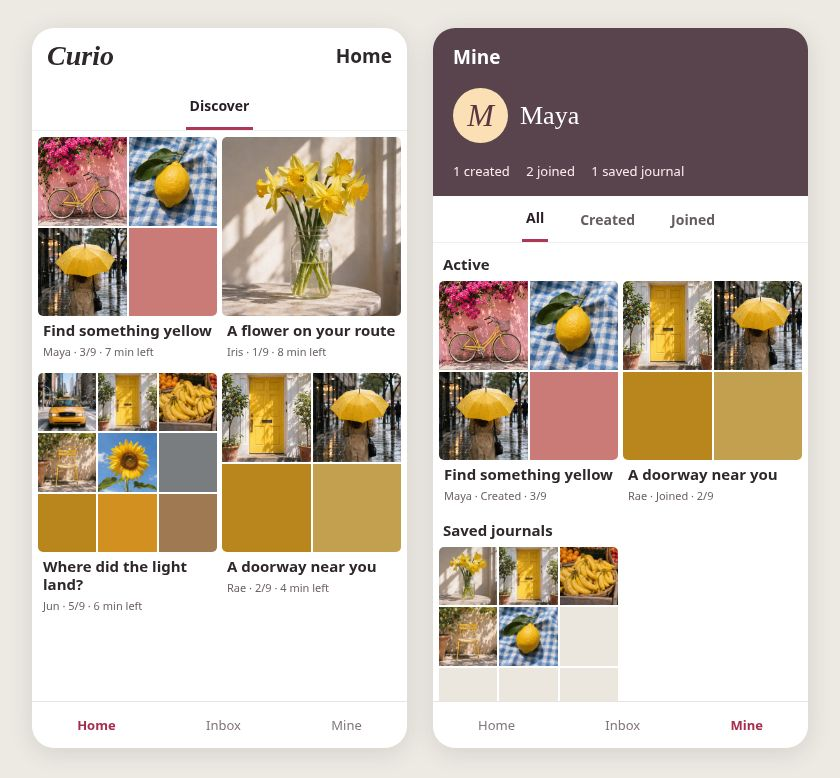
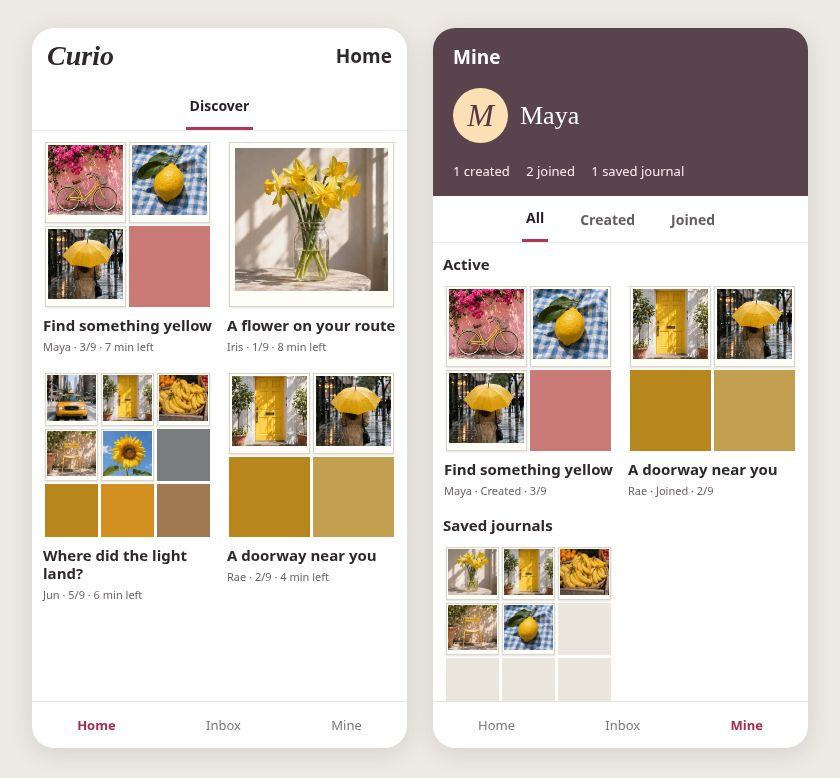
Frame individual Home and Mine photos as instant prints

Changed region(s): [[0.031, 0.1542, 0.9595, 0.8946]]

diff --git a/prototype/round1/ui/Home_and_Mine.html b/prototype/round1/ui/Home_and_Mine.html
@@ -1,1 +1,11 @@
-<!doctype html><html lang="en"><meta charset="utf-8"><meta name="viewport" content="width=device-width,initial-scale=1"><title>Curio · Home and Mine</title><style>*{box-sizing:border-box}body{margin:0;padding:28px 12px;display:flex;justify-content:center;align-items:flex-start;gap:26px;flex-wrap:wrap;background:#edeae4;color:#2f282a;font:15px system-ui,sans-serif}.screen{width:min(375px,100%);height:720px;background:white;overflow:hidden;border-radius:22px;display:flex;flex-direction:column;box-shadow:0 5px 25px #3222}.scroll{overflow-y:auto;flex:1;scrollbar-width:none}header{padding:12px 15px;display:flex;justify-content:space-between;align-items:center}header b{font:italic bold 28px Georgia}h1{font-size:19px;margin:0}.tabs{display:flex;justify-content:center;gap:28px;position:sticky;top:0;background:white;z-index:1;border-bottom:1px solid #eee}.tabs>*{background:none;border:0;padding:12px 4px;font:600 14px system-ui;color:#655c60}.tabs .current{border-bottom:3px solid #ae3657;color:#271d24}.cards{display:grid;grid-template-columns:repeat(2,minmax(0,1fr));gap:14px 5px;padding:6px}.cover{display:grid;grid-template-columns:repeat(var(--cols),1fr);grid-auto-rows:1fr;gap:2px;aspect-ratio:1;border-radius:5px;overflow:hidden}.cover>*{min-height:0;width:100%;height:100%;object-fit:cover}h3,small{display:block;margin:5px 5px 0}h3{font-size:15px;line-height:1.2}small{font-size:11px;color:#6c6165}footer{display:flex;border-top:1px solid #e9e4e4;justify-content:space-around;padding:14px 0;color:#82777b;font-size:13px}.selected{font-weight:700;color:#a62d4d}.profile{padding:16px 20px;background:#59434d;color:white}.person{display:flex;align-items:center;gap:12px;margin:18px 0}.avatar{border-radius:50%;background:#fae0b4;width:55px;height:55px;display:grid;place-items:center;color:#583643;font:italic 32px Georgia}.person strong{font:26px Georgia}.stats{font-size:13px;color:#ffebee}.label{margin:11px 10px 1px;font-size:15px}button{cursor:pointer}</style><section class="screen"><header><b>Curio</b><h1>Home</h1></header><div class="scroll"><div class="tabs"><span class="current">Discover</span></div><div class="cards"><article data-role=""><div class="cover" style="--cols:2"><img alt="" src="assets/1.jpg"/><img alt="" src="assets/2.jpg"/><img alt="" src="assets/3.jpg"/><i style="background:#ca7a77"></i></div><h3>Find something yellow</h3><small>Maya · 3/9 · 7 min left</small></article><article data-role=""><div class="cover" style="--cols:1"><img alt="" src="assets/4.jpg"/></div><h3>A flower on your route</h3><small>Iris · 1/9 · 8 min left</small></article><article data-role=""><div class="cover" style="--cols:3"><img alt="" src="assets/5.jpg"/><img alt="" src="assets/6.jpg"/><img alt="" src="assets/7.jpg"/><img alt="" src="assets/8.jpg"/><img alt="" src="assets/9.jpg"/><i style="background:#7a7d7f"></i><i style="background:#b8861d"></i><i style="background:#d29020"></i><i style="background:#9e7952"></i></div><h3>Where did the light land?</h3><small>Jun · 5/9 · 6 min left</small></article><article data-role=""><div class="cover" style="--cols:2"><img alt="" src="assets/6.jpg"/><img alt="" src="assets/3.jpg"/><i style="background:#b8861d"></i><i style="background:#c2a050"></i></div><h3>A doorway near you</h3><small>Rae · 2/9 · 4 min left</small></article></div></div><footer><span class="selected">Home</span><span class="">Inbox</span><span class="">Mine</span></footer></section><section class="screen"><div class="scroll"><div class="profile"><h1>Mine</h1><div class="person"><span class="avatar">M</span><strong>Maya</strong></div><div class="stats">1 created　 2 joined　 1 saved journal</div></div><div class="tabs"><button aria-pressed="true" class="current">All</button><button aria-pressed="false" class="">Created</button><button aria-pressed="false" class="">Joined</button></div><div class="group"><h2 class="label">Active</h2><div class="cards"><article data-role="Created"><div class="cover" style="--cols:2"><img alt="" src="assets/1.jpg"/><img alt="" src="assets/2.jpg"/><img alt="" src="assets/3.jpg"/><i style="background:#ca7a77"></i></div><h3>Find something yellow</h3><small>Maya · Created · 3/9</small></article><article data-role="Joined"><div class="cover" style="--cols:2"><img alt="" src="assets/6.jpg"/><img alt="" src="assets/3.jpg"/><i style="background:#b8861d"></i><i style="background:#c2a050"></i></div><h3>A doorway near you</h3><small>Rae · Joined · 2/9</small></article></div></div><div class="group"><h2 class="label">Saved journals</h2><div class="cards"><article data-role="Joined"><div class="cover" style="--cols:3"><img alt="" src="assets/4.jpg"/><img alt="" src="assets/6.jpg"/><img alt="" src="assets/7.jpg"/><img alt="" src="assets/8.jpg"/><img alt="" src="assets/2.jpg"/><i style="background:#ebe7df"></i><i style="background:#ebe7df"></i><i style="background:#ebe7df"></i><i style="background:#ebe7df"></i></div><h3>On the way home</h3><small>Jun · Joined · Nov 18</small></article></div></div></div><footer><span class="">Home</span><span class="">Inbox</span><span class="selected">Mine</span></footer></section><script>for(const button of document.querySelectorAll('button')) button.onclick=()=>{for(const b of document.querySelectorAll('button')){b.classList.toggle('current',b===button);b.setAttribute('aria-pressed',String(b===button))}for(const group of document.querySelectorAll('.group')){for(const card of group.querySelectorAll('article'))card.hidden=button.textContent!=='All'&&card.dataset.role!==button.textContent;group.hidden=!group.querySelector('article:not([hidden])')}}</script></html>
+<!doctype html><html lang="en"><meta charset="utf-8"><meta name="viewport" content="width=device-width,initial-scale=1"><title>Curio · Home and Mine</title><style>*{box-sizing:border-box}body{margin:0;padding:28px 12px;display:flex;justify-content:center;align-items:flex-start;gap:26px;flex-wrap:wrap;background:#edeae4;color:#2f282a;font:15px system-ui,sans-serif}.screen{width:min(375px,100%);height:720px;background:white;overflow:hidden;border-radius:22px;display:flex;flex-direction:column;box-shadow:0 5px 25px #3222}.scroll{overflow-y:auto;flex:1;scrollbar-width:none}header{padding:12px 15px;display:flex;justify-content:space-between;align-items:center}header b{font:italic bold 28px Georgia}h1{font-size:19px;margin:0}.tabs{display:flex;justify-content:center;gap:28px;position:sticky;top:0;background:white;z-index:1;border-bottom:1px solid #eee}.tabs>*{background:none;border:0;padding:12px 4px;font:600 14px system-ui;color:#655c60}.tabs .current{border-bottom:3px solid #ae3657;color:#271d24}.cards{display:grid;grid-template-columns:repeat(2,minmax(0,1fr));gap:14px 5px;padding:6px}.cover{display:grid;grid-template-columns:repeat(var(--cols),1fr);grid-auto-rows:1fr;gap:3px;aspect-ratio:1;width:92%;margin:5px auto 9px}.cover>*{min-height:0;width:100%;height:100%;object-fit:cover}h3,small{display:block;margin:5px 5px 0}h3{font-size:15px;line-height:1.2}small{font-size:11px;color:#6c6165}footer{display:flex;border-top:1px solid #e9e4e4;justify-content:space-around;padding:14px 0;color:#82777b;font-size:13px}.selected{font-weight:700;color:#a62d4d}.profile{padding:16px 20px;background:#59434d;color:white}.person{display:flex;align-items:center;gap:12px;margin:18px 0}.avatar{border-radius:50%;background:#fae0b4;width:55px;height:55px;display:grid;place-items:center;color:#583643;font:italic 32px Georgia}.person strong{font:26px Georgia}.stats{font-size:13px;color:#ffebee}.label{margin:11px 10px 1px;font-size:15px}button{cursor:pointer}
+.cover img {
+  --rim: calc(6px / var(--cols));
+  background: #fffdf7;
+  border: solid #fffdf7;
+  border-width: var(--rim) var(--rim) calc(var(--rim) * 2.8);
+  outline: 1px solid #d9d5cd;
+  outline-offset: -1px;
+  box-shadow: 0 1px 2px #34292326;
+}
+</style><section class="screen"><header><b>Curio</b><h1>Home</h1></header><div class="scroll"><div class="tabs"><span class="current">Discover</span></div><div class="cards"><article data-role=""><div class="cover" style="--cols:2"><img alt="" src="assets/1.jpg"/><img alt="" src="assets/2.jpg"/><img alt="" src="assets/3.jpg"/><i style="background:#ca7a77"></i></div><h3>Find something yellow</h3><small>Maya · 3/9 · 7 min left</small></article><article data-role=""><div class="cover" style="--cols:1"><img alt="" src="assets/4.jpg"/></div><h3>A flower on your route</h3><small>Iris · 1/9 · 8 min left</small></article><article data-role=""><div class="cover" style="--cols:3"><img alt="" src="assets/5.jpg"/><img alt="" src="assets/6.jpg"/><img alt="" src="assets/7.jpg"/><img alt="" src="assets/8.jpg"/><img alt="" src="assets/9.jpg"/><i style="background:#7a7d7f"></i><i style="background:#b8861d"></i><i style="background:#d29020"></i><i style="background:#9e7952"></i></div><h3>Where did the light land?</h3><small>Jun · 5/9 · 6 min left</small></article><article data-role=""><div class="cover" style="--cols:2"><img alt="" src="assets/6.jpg"/><img alt="" src="assets/3.jpg"/><i style="background:#b8861d"></i><i style="background:#c2a050"></i></div><h3>A doorway near you</h3><small>Rae · 2/9 · 4 min left</small></article></div></div><footer><span class="selected">Home</span><span class="">Inbox</span><span class="">Mine</span></footer></section><section class="screen"><div class="scroll"><div class="profile"><h1>Mine</h1><div class="person"><span class="avatar">M</span><strong>Maya</strong></div><div class="stats">1 created　 2 joined　 1 saved journal</div></div><div class="tabs"><button aria-pressed="true" class="current">All</button><button aria-pressed="false" class="">Created</button><button aria-pressed="false" class="">Joined</button></div><div class="group"><h2 class="label">Active</h2><div class="cards"><article data-role="Created"><div class="cover" style="--cols:2"><img alt="" src="assets/1.jpg"/><img alt="" src="assets/2.jpg"/><img alt="" src="assets/3.jpg"/><i style="background:#ca7a77"></i></div><h3>Find something yellow</h3><small>Maya · Created · 3/9</small></article><article data-role="Joined"><div class="cover" style="--cols:2"><img alt="" src="assets/6.jpg"/><img alt="" src="assets/3.jpg"/><i style="background:#b8861d"></i><i style="background:#c2a050"></i></div><h3>A doorway near you</h3><small>Rae · Joined · 2/9</small></article></div></div><div class="group"><h2 class="label">Saved journals</h2><div class="cards"><article data-role="Joined"><div class="cover" style="--cols:3"><img alt="" src="assets/4.jpg"/><img alt="" src="assets/6.jpg"/><img alt="" src="assets/7.jpg"/><img alt="" src="assets/8.jpg"/><img alt="" src="assets/2.jpg"/><i style="background:#ebe7df"></i><i style="background:#ebe7df"></i><i style="background:#ebe7df"></i><i style="background:#ebe7df"></i></div><h3>On the way home</h3><small>Jun · Joined · Nov 18</small></article></div></div></div><footer><span class="">Home</span><span class="">Inbox</span><span class="selected">Mine</span></footer></section><script>for(const button of document.querySelectorAll('button')) button.onclick=()=>{for(const b of document.querySelectorAll('button')){b.classList.toggle('current',b===button);b.setAttribute('aria-pressed',String(b===button))}for(const group of document.querySelectorAll('.group')){for(const card of group.querySelectorAll('article'))card.hidden=button.textContent!=='All'&&card.dataset.role!==button.textContent;group.hidden=!group.querySelector('article:not([hidden])')}}</script></html>

diff --git a/docs/ai-dialogue/Curio_AI_Dialogue.md b/docs/ai-dialogue/Curio_AI_Dialogue.md
@@ -278,3 +278,12 @@ The earlier companion-only dialogue and its documentation requests are kept in t
 > use this as ecxample for home page and mine
 
 **Assistant response summary (English):** Used the supplied profile and feed screenshot to design a denser two-column Home and a profile-led Mine with working collection filters.
+
+### 2026-11-19 — Instant-photo frames on Home and Mine
+
+**User instruction (verbatim)**
+> 把那个图片整体占比稍微再小一些，然后让那个图片看起来参考派利德就是参考派利德的格式一些，就是给每个图片外头再加一个派利德一样的框框
+
+**User request summary (English):** Slightly reduce the photo footprint and give each photo an instant-print frame.
+
+**Assistant response summary (English):** Reduced Home and Mine cover widths to 92% and added warm white frames with deeper bottom borders scaled to each photo grid.
